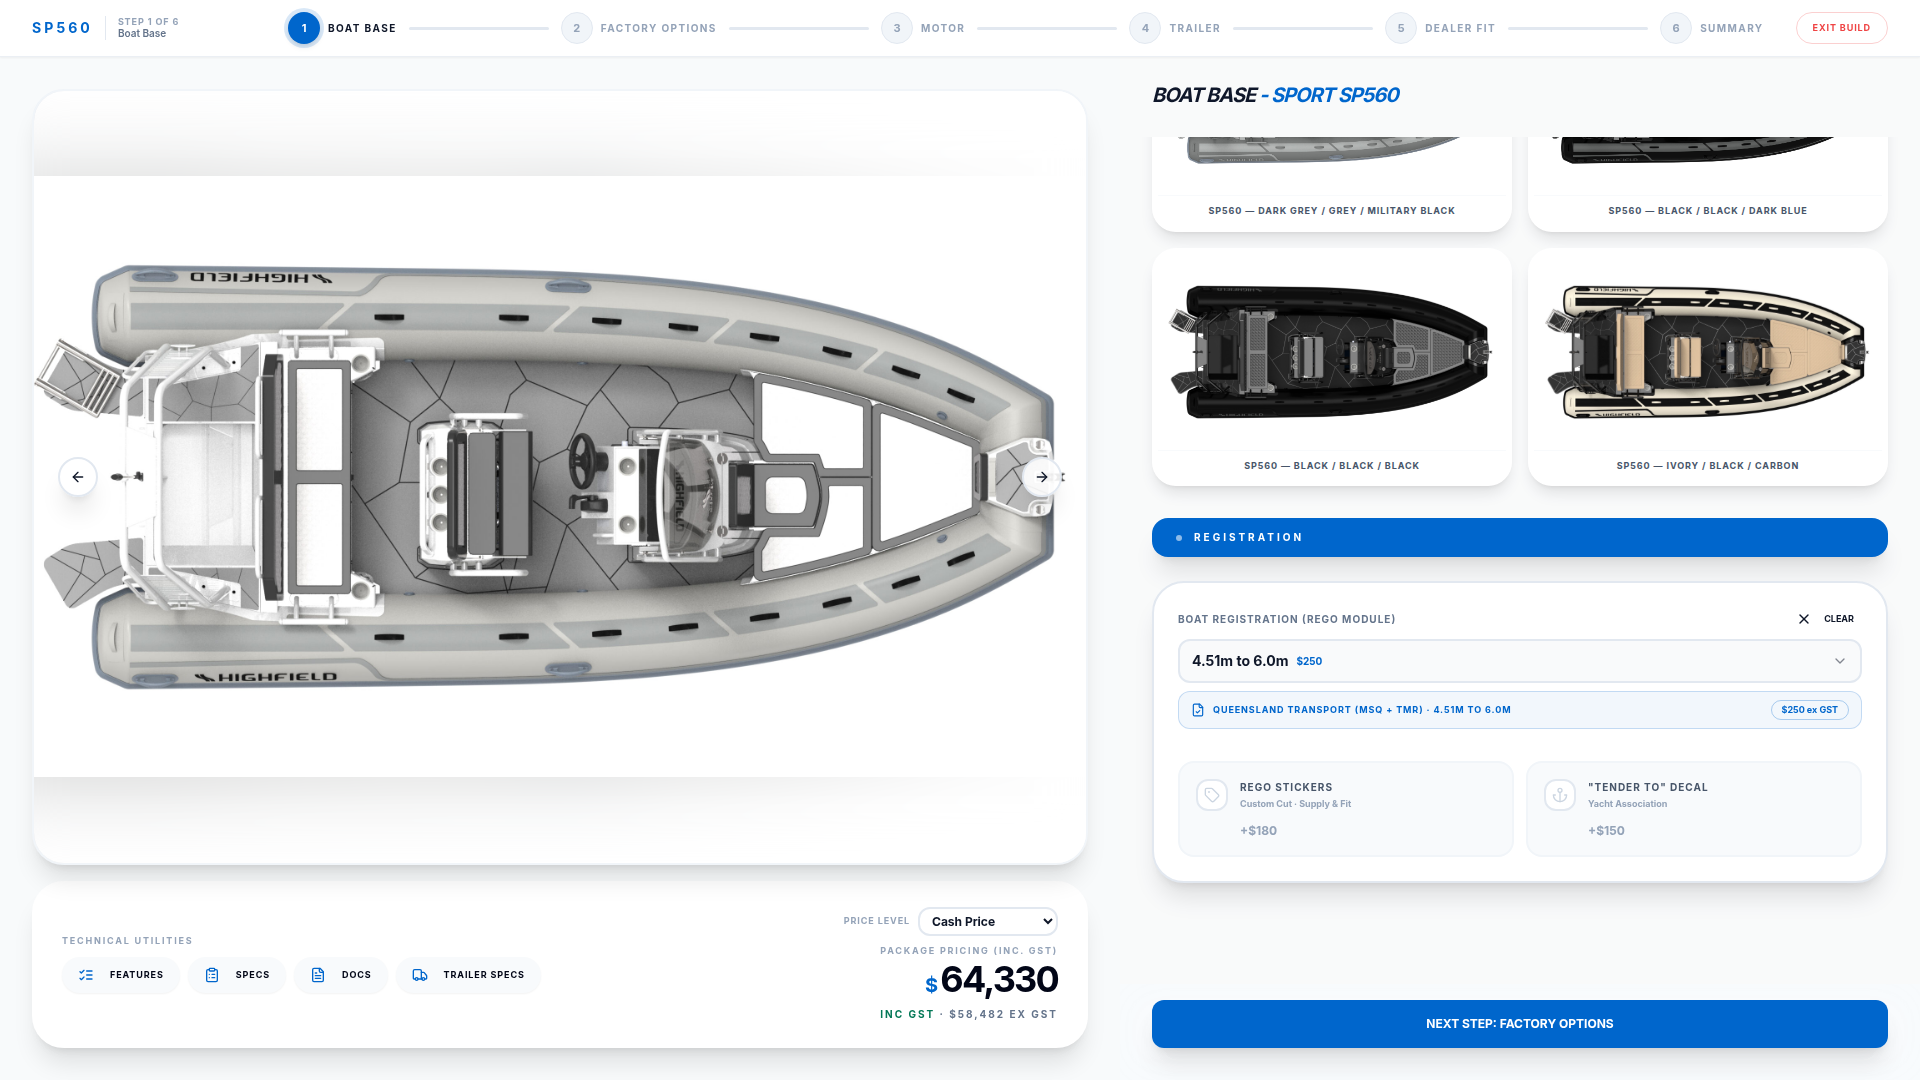
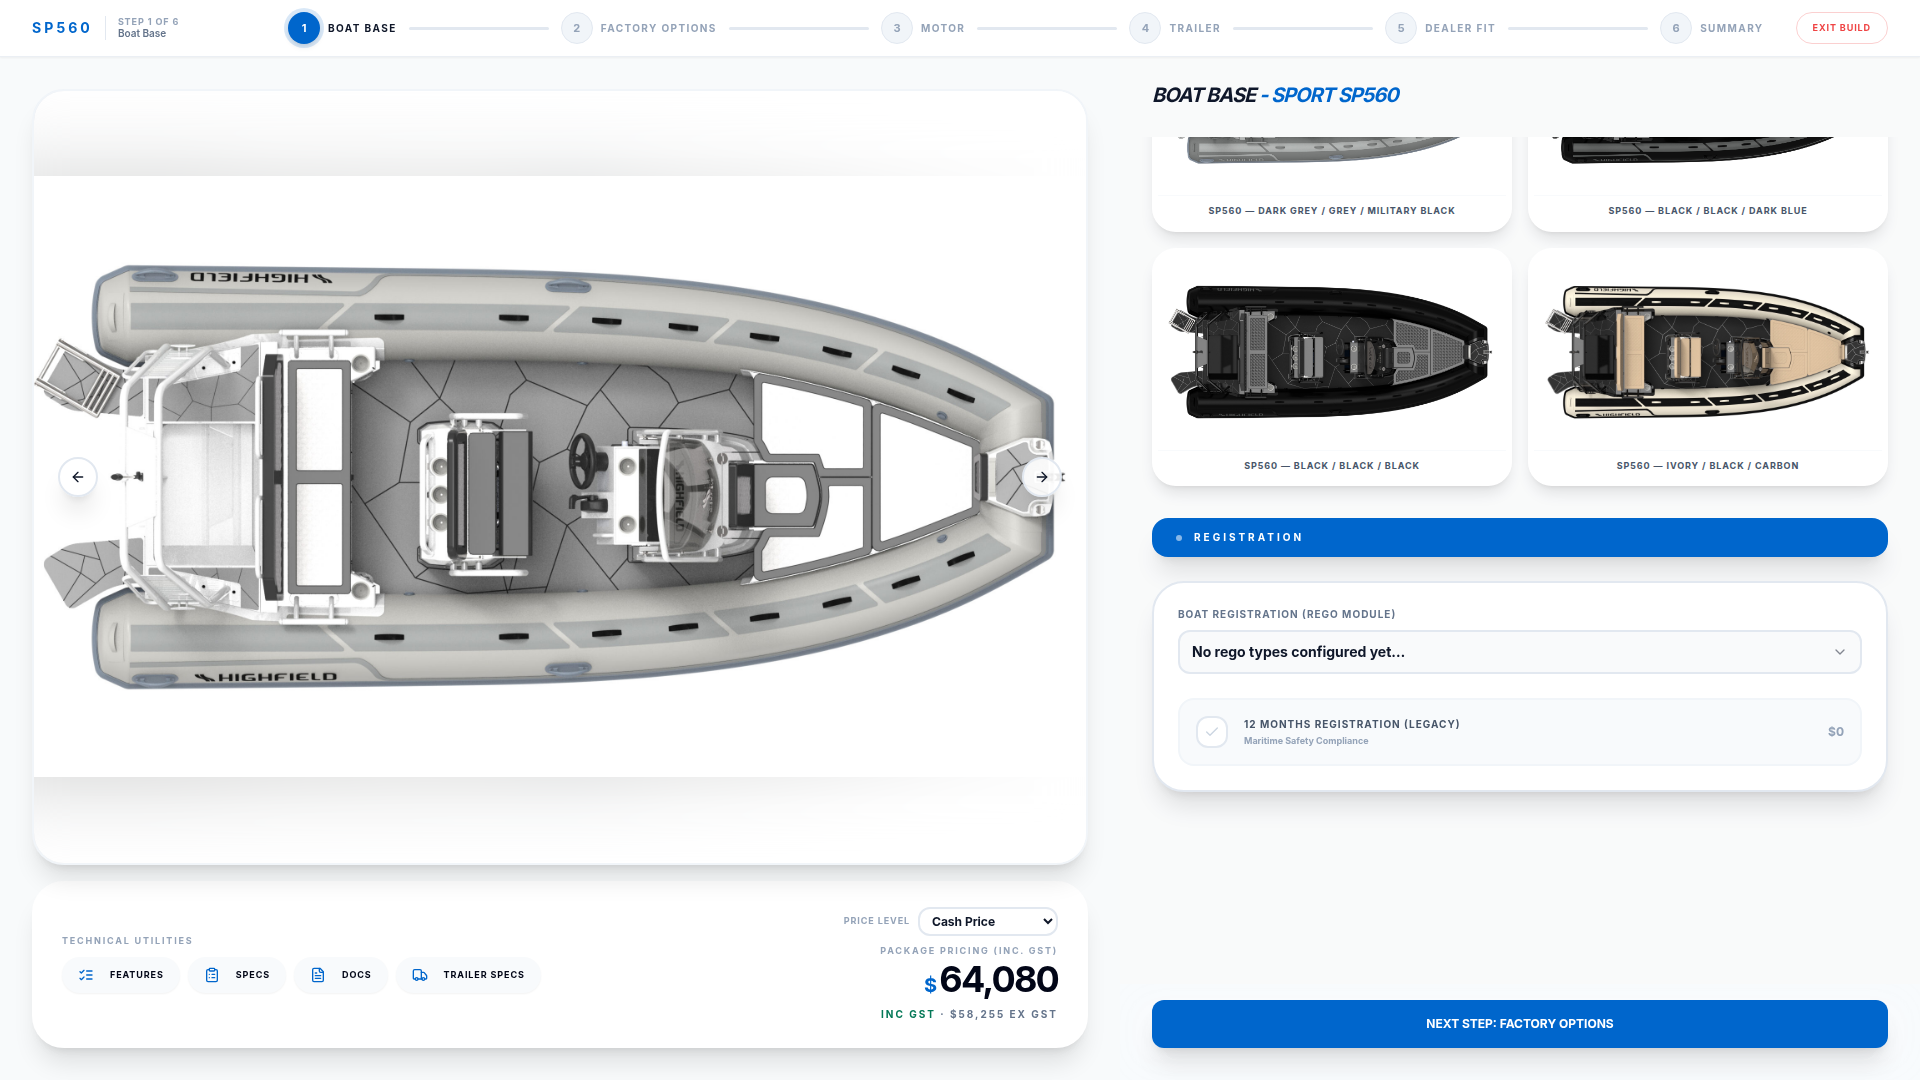
docs(v1.32): ceremony — release window shipped, CLAUDE.md row, handover, evolution lessons, roadmap story 12.5.1 seeded
Claude-Session: https://claude.ai/code/session_01N8htvKjvX1mxB76joJ9QQg

diff --git a/src/lib/release-schedule.ts b/src/lib/release-schedule.ts
@@ -49,7 +49,7 @@ export interface ReleaseWindow {
  * overwrote `{shipped: true}` to `{}`, the SHIPPED pill never rendered
  * on the Roadmap — caught by the user "why isn't 1.10 green?")
  */
-const FORWARD_RUNWAY_START = 32;
+const FORWARD_RUNWAY_START = 33;
 const FORWARD_RUNWAY_END = 40;
 function buildV1MinorReleases(): Record<string, ReleaseWindow> {
     const out: Record<string, ReleaseWindow> = {};
@@ -260,6 +260,12 @@ export const RELEASE_WINDOWS: Record<string, ReleaseWindow> = {
     // (3 bugs fixed), CI gate + nightly synthetic, visual regression +
     // TLS bridge, 34,512-check parity battery, fail-fix-retest ledger.
     'v1.31': { shipped: true },
+    // v1.32 — Display-Sheet pricing engine (FFR-33): quotes compose and
+    // price exactly like NSM's Display Sheet for every MPF boat (PD tier +
+    // rigging + prop composition, inc-GST convention, stale-override sweep).
+    // Proof: Mark's SP560 rebuilt in-browser + customer PDF at the sheet's
+    // own number. See tasks/RELEASE_NOTES_v1.32.0.md.
+    'v1.32': { shipped: true },
     ...buildV1MinorReleases(),
 };
 

diff --git a/CLAUDE.md b/CLAUDE.md
@@ -29,6 +29,7 @@
 | v1.11 — Fit-Up release (end-to-end + expansion + variants + images + packages + scheduling + audit workbook + pre-launch hardening) | ✅ Shipped to production. **Phase A** — pulled Epic 9.2 forward from v1.16: `FitUpQuoteSelector` mounted on Step 5 with multi-level assignment (modules / brands / ranges / models AND-combined), motor-HP Suggested filter, customer PDF single Fit-up & Rigging summary line per locked Story 9.2.3. **Phase B (expansion)** — `FitUpItem` gains `category` + `customerDescription`; new `fitUpPackages` collection with one-click bundle selection; quote selector adds search + category chips + per-line qty / price-override / quote-note; new workshop `fitUpStatus` on the quote (pending/scheduled/in-progress/complete) as a popover pill on the proposal-view header, audit-logged. **Phase C (expansion-2)** — demo-unblocker `V111SeedFitUpDummyDataButton` (15 items + 3 packages, catalogue-wide, click-once); variant-level (sub-model SKU) assignment with lazy-loaded `variantIds` chips; item images (`imageUrl` field + native `<img>` thumbnails per CLAUDE.md lesson); soft `oftenPairedWith` hints (lightweight take on 9.3.1; full rule engine still v2.2); catalog audit log at `organisations/{orgId}/fitUpCatalogAudit` (create/update/delete with shallow diff, fire-and-forget); `FitUpPackage.packagePrice` package-level override (proportionally distributed across members as per-line overrides at quote time, margin stays honest); fit-up scheduling fields on the quote (`fitUpScheduledDate` + `fitUpAssignedTechnician`) rendered inside the workshop-status popover; expanded `catalog-export-import.tsx` as the **Pricing + Configurator Audit Workbook** with new export-only sheets (Exchange Rates / Dealer Fit Selections / Dealer Fit Categories / Motor Vendors / Motor Models with flat hull_cash / hull_trade / hull_subdealer / hull_commercial / hull_boating_alliance price-level columns). **Phase D — pre-launch hardening (8/06/2026)** triggered by Mark McWilliams' "accurate · audited · beautiful" email. (1) Mark's 8-item checklist proven end-to-end via `tests/bm-email-checklist.spec.ts` (CL380, 11/11 ticks) + `tests/bm-email-checklist-sport.spec.ts` (SP600 fallback SP560) — proposal sections + customer name placement + no-trailer-on-hull + FFO + motor + rigging + trailer + DFOs + rego (Step 1 picker + PDF) + fit-out tiers. (2) `proposal-pdf.tsx` restores trailer image (fallback chain: imageUrl → catalog.imageUrl → catalog.coverImageUrl → BuildBand placeholder), adds SummaryImage fallback for motor image, and nests Standard Inclusions / Factory Options / Motor Accessories / Trailer Options / Dealer Fit as indented sub-items under their parent Vessel / Propulsion / Trailer line in the Investment Summary. (3) Audit-trail unification — `CatalogAuditHistory` now merges `catalogAudit` + `fitUpCatalogAudit` into one chronological feed (Wrench icon for fit-up rows), and the CSV bulk-import path in `fit-up-catalog-manager.tsx` writes its missing summary audit event. New `tests/v1.11-audit-trail.spec.ts` covers the unified panel + Fit-Up edit affordance + proposal-view Activity tab. (4) Fit-Up Catalog Add/Edit dialog polish — widened to `max-w-3xl` with vertical scroll + sticky save bar, four card sections with coloured dot headers (Basics / Customer-facing / Internal / Assignment scope), tier picker as 3-button pill row in TIER_TONE colours, image preview promoted from 64×64 to 80×112 alongside its URL input. Pure JSX rework — no schema or save-logic change. (5) Proposal-PDF polish — `proposal-pdf.tsx` restores trailer image (fallback chain `imageUrl → catalog.imageUrl → catalog.coverImageUrl → BuildBand placeholder`), adds `SummaryImage` motor fallback (for the Yamaha CDN Incapsula workaround), and nests Standard Inclusions / Factory Options / Motor Accessories / Trailer Options / Dealer Fit as indented sub-items under their parent Vessel / Propulsion / Trailer line in the Investment Summary. **Other v1.11 work** documented in release notes / user guide / email: Catalog Manager rename (Pricing → Catalog, sidebar URL unchanged); "Your Build" card-stack PDF redesign with numbered BuildBand stack + scope-routed dealer-fit; per-block content-block PDF styling (`accentColor` / `backgroundColor` / `textColor` / `titleSize` / `bodySize` / `titleAlign` / `bodyAlign` / `titleItalic` schema + scope-chain resolver); motor photo upload UI mirroring to Firebase Storage; Boats + Motors catalogue read-views (Stories 3.7.2 + 3.7.3); Customer Defaults card (sources / pipeline stages / trade-in rule); Document Defaults card (deposit / payment schedule / validity); `can_override_margin` + `can_approve_suggestions` permission flags; per-scope tier-package resolver with specificity weighting (model 8 > range 4 > brand 2 > module 1, +16 for useCase); image-preload routing through weserv with `WESERV_SKIP_HOSTS` denylist (kills the 21 MB PDF regression). **NOT in v1.11 (pushed to v1.12)** — code IS on dev and will ship, planning rows moved: Service Quote Flow (11.2.1), Service Catalog refinements (11.1.3 / 11.1.4), Motors Table read-view (3.7.3), Suggestion Approval Queue (3.5.1). One-shot buttons `V111FitUpRetargetButton` + `V111ExpansionRetargetButton` + `V111SeedFitUpDummyDataButton` mounted on the Roadmap; rules redeploy needed for new paths (`fitUpPackages`, `fitUpCatalogAudit` — full ruleset in PR description). `RELEASE_WINDOWS['v1.11'].shipped = true`. See `tasks/RELEASE_NOTES_v1.11.0.md` + `tasks/USER_GUIDE_v1.11.0.md`. |
 | v1.15 → v1.17 — Suggestions audit (3.3.1) · quote-flow polish + Hypalon relabel + PDF sizing · Catalog Editing at Scale + bug sweep | ✅ Shipped to production. Merged to main in PR #44 (main tip `c9b8b2c`) together with the v1.10–v1.14 joint pushes. See `tasks/RELEASE_NOTES_v1.15.0.md` / `v1.16.0` / `v1.17.0` + matching user guides. |
 | v1.18 → v1.30 — thirteen dev releases in this dev → main span: v1.18 Catalog polish + first customer-facing surface + Shopify spike · v1.19 Pricing discipline + variations foundation · v1.20 Quote-to-Contract lifecycle · v1.21 Customer CRM foundation · v1.22 Sales workspace shell · v1.23 Pipeline + payments + my-work · v1.24 Customer depth · v1.25 Quote tooling · v1.26 Global Search · v1.27 Customer documents + customer promos (**partial — 2.5.2 blocked on Revolution access, window honestly unflagged**) · v1.28 Co-buyers + refunds + promotion stacking · v1.29 (window skipped, empty) · v1.30 Notification system foundation | ✅ Shipped to production. Merged to main in the v1.18 → v1.31 release PR. Release notes + user guides exist for every one (`tasks/RELEASE_NOTES_v1.18.0.md` … `v1.30.0.md`). |
+| v1.32 — Display-Sheet pricing engine (FFR-33) | ✅ Shipped to production. Mark's SP560 field test ($103,731 sheet vs $99,112 HL) reconciled to the dollar into 3 causes, all fixed: stale modelOverrides layer swept fleet-wide (29 prices / 6 models, 0 shadows on re-audit); package composition per their sheet (PD tiers imported onto all 809 variants via `import-pd-tiers.py`, PD tier + slot rigging + prop auto-compose, PDF gains a Pre-Delivery & Installation line); inc-GST convention (`pricingConvention: 'display-sheet-v2'`, their figures are inc-GST money — "RRP + Freight Inc GST" is their own column title; legacy quotes keep the old convention). Proof: exact config rebuilt in-browser + customer PDF at the sheet's number (`tasks/test-evidence/ffr33-sp560-proof/`). Known residuals in notes: prop 4-price ambiguity (calibrated $282, NSM to rule), Display Sheet workbook requested from NSM for structural parity, PD tier picker + grid-motor bundles + battery sections M/N → v1.33. See `tasks/RELEASE_NOTES_v1.32.0.md` + `USER_GUIDE_v1.32.0.md` + `ffr33-composition-notes.md`. |
 | v1.31 — MPF migration + Testing & Evidence overhaul | ✅ Shipped to production (release prep complete 2026-07-05; merged to main in the v1.18 → v1.31 release PR). **Epic 12 (Master Price File Migration, `epics/mpf-migration`, stories 12.1.1–12.4.1)**: NSM's 17-workbook MPF ingested + decoded (phantom-dim traps defused), mapped with D1–D10 decision register (`tasks/mpf-audit/MAPPING.md`), then applied in 4 waves — 36,551 writes, 0 errors: boats (9 brands / 810 boats / landed-cost chain / price ladders / curated motor-trailer-dealer-fit menus, 588 Highfield SKUs parity-exact), motors/trailers/FO (priceLevels + new `hull_campaign`; 1,011 Highfield FO reprices fixing live USD-as-AUD cost==sell), parts (1,791 DFO / 3,660 fitUp / 26,345 serviceParts / 846 riggingKits / 1,606 suppliers), service + pricing config (364 ops / 189 engineServiceSchedules / 48-row pricingMatrix / QLD rego / freight / explicit FX). Quote-flow **NSM Recommended** wiring (`nsm-recommended.tsx`, data-gated, zero pre-import regression), **Manage → MPF Data** admin tab (6 collection managers), pricing-workspace landed-cost breakdown + engine service-schedule picker, image remediation (171 mirrored to Storage `mpf-mirror/`, 1,056 doc patches). **Epic 13 (Testing & Evidence Overhaul, `epics/testing-evidence`, stories 13.1.1–13.2.2)**: 460-test money-math unit suite (3 real bugs found + fixed: over-discount clamp, `cost: 0` honored via `??` instead of an OR-fallback, payment-schedule floor), CI gate + nightly synthetic (`.github/workflows/ci.yml`), visual regression + sandbox TLS bridge, MPF parity battery sections I/J (34,498/34,512, every fail explained — **PARITY PROVEN, zero unexpected deltas**), fail→fix→retest ledger FFR-1…16 + grand evidence report. New org collections: `riggingKits`, `suppliers`, `supplierPriceLists`, `pricingMatrix`, `engineServiceSchedules`, `freightConfig` (rules deployed + verified). Seeded via `scripts/seed-v131-mpf-release.py` (applied + read back: 2 epics + 14 shipped stories). `RELEASE_WINDOWS['v1.31'].shipped = true`; `FORWARD_RUNWAY_START` 31 → 32. See `tasks/RELEASE_NOTES_v1.31.0.md` + `tasks/USER_GUIDE_v1.31.0.md`. **Hunt-wave close-out (2026-07-04/05)**: ledger runs FFR-17…32 — full Highfield fleet walk ALL GREEN (85 models / 640 variants / 32,816 price asserts), per-boat relation web re-proven **ALL SETS EQUAL, 0 unexplained across 809 boats** (`PER_BOAT_SETS.md`), Step-5 curation engine (`src/lib/step5-curation.ts`, named fail-open rules + search/chips/show-all), hero-carousel fix (FFR-30), R-HP twin-engine scaling (FFR-31), three adversarial audits closed (`UI_AUDIT.md` / `STRUCTURE_AUDIT.md` / `INVARIANTS_AUDIT.md` — 9 money invariants, every flag source-verified, zero data patches needed), FFR-16 CL380 checklist GREEN solo 11/11 (root cause was environment contention, twice proven), FFR-32 GT-console fix (GT never offers/charges a seat — FCT comes standard; 31 entries unpaired across catalog + cl340 override, browser-proven). **Pending**: NSM asks (Yamaha assets / SharePoint exports / fresh Yamaha price file / Stabicraft FO fix in their MPF / 7 below-cost Stacer hulls / 29 motor-menu-vs-HP-column contradictions / 4 dead-or-unpriced trailer refs / digitless 'HIGHFIELD - Patrol' pack size / NEW-3 + NEW-4 factory-option scoping rulings), rules publish for the two P1 gaps (cross-user notifications + features auditLog). |
 
 **Active dev branch**: `claude/app-overview-wKiZ1` (auto-deploys to dev URL)

diff --git a/tasks/SESSION_HANDOVER.md b/tasks/SESSION_HANDOVER.md
@@ -24,6 +24,7 @@
 | v1.9.5 | 2026-05-14 | ✅ Shipped (PR #36) | main |
 | v1.10 | 2026-06-02 | ✅ Shipped — Phase A bug pass + Phase B Fit-Up admin + Phase C Service Quoting catalogue + Story 3.7.2 Boats read-view + FirebaseErrorListener denylist defense + v1.9.5 backfill | merged |
 | **v1.11** | **2026-06-02** | 🚢 **Ready for dev → main — Fit-Up release (Phase A pulled Epic 9.2 from v1.16 + Phase B fit-up expansion: categories + customerDescription + packages + per-line qty/override/note + workshop status pill).** Non-fit-up stories built in the same dev cycle (Service Quote Flow, Motors Table, Suggestion Approval Queue) retargeted to v1.12 so v1.11 ships as a focused Fit-Up release. | `claude/app-overview-wKiZ1` |
+| **v1.32** | **2026-07-08** | 🚢 **Display-Sheet pricing engine (FFR-33)** — quotes compose + price exactly like NSM's Display Sheet on every MPF boat: stale override sweep (fleet-wide, 0 shadows), PD tiers on all 809 variants, PD tier + slot rigging + prop auto-composition, inc-GST convention (`pricingConvention: 'display-sheet-v2'`, legacy quotes untouched). Proof: Mark's SP560 rebuilt in-browser + customer PDF at the sheet's own number. See `tasks/RELEASE_NOTES_v1.32.0.md`. | `claude/app-overview-wKiZ1` |
 | **v1.31** | **2026-07-03** | 🚢 **MPF migration + Testing & Evidence overhaul** — Epic 12 (NSM's 17-workbook Master Price File migrated 1:1: 36,551 writes / 0 errors / parity proven 34,498 of 34,512 with every fail explained) + Epic 13 (460-test money-math unit suite, CI gate + nightly synthetic, visual regression + TLS bridge, fail→fix→retest ledger FFR-1…31 incl. the hunt-wave close-out: full fleet walk green, 809-boat relation web ALL SETS EQUAL 0 unexplained, Step-5 curation engine, three adversarial audits, FFR-16 checklist 11/11 solo). **Release-prepped 2026-07-05 — the pending dev → main PR spans v1.18 → v1.31.** See `tasks/RELEASE_NOTES_v1.31.0.md` + `tasks/RELEASE_PR_DRAFT_v1.31.md` + the "v1.31 new Firestore surface" block below. | `claude/app-overview-wKiZ1` |
 
 > **v1.9.5 = planning + groundwork + hotfix** (fractional, like v1.5.1/v1.6.1). Roadmap reshuffled to dealer-ops priority (157 stories re-targeted, Submitted drained, sequential v1.10–v1.40 runway); Epic 11 Service Quoting seeded as backlog (NSM-Hub absorption — PLANNED, not built); clickable release-detail popups; emailTemplates Create-Proposal crash (CODE fix — SendQuoteDialog subscribed to templates unconditionally; not a rules issue). **The actual dealer-ops + Service Quoting BUILD starts at v1.10.**

diff --git a/.agents/evolution.md b/.agents/evolution.md
@@ -399,6 +399,10 @@ Pricing overhaul (universal publish, price level selector), quote-to-stock with 
 - **A "solo" test run isn't solo if background REST walks share the proxy.** The CL380 checklist failed its scheduled solo re-run because two read-only Firestore audits were saturating the sandbox TLS bridge — the module page starved at "Synchronizing". Before declaring an environment-suspected failure re-tested, enumerate every process that touches Firestore/the bridge and kill them; `ps aux | grep` is part of the retest protocol.
 - **Python ports of TS classifiers drift silently — re-run the port after every TS change.** The C1F simulation still embodied the pre-curation classifier weeks of commits later, reporting 420 stale "NEW" diffs. When a check ports app logic, the port's sync commit must be paired with a fresh evidence run, or the evidence file contradicts the shipped behavior.
 
+- **A field tester compares against the tool they USE, not the data you migrated.** MPF parity was proven value-for-value, yet Mark's quote diverged $4,619 — because his Display Sheet COMPOSES (PD bundling, raw-GST option summing) on top of the data. Parity claims must cover the composition layer, and the verification harness must price like the user's tool end-to-end, not diff catalog values. Corollary: get the tool's own workbook — reverse-engineering a printout leaves residuals (their sheet carried a $10 unattributable rounding + a 4-price prop ambiguity inside their own file).
+- **Every price surface must flow through ONE money function.** The $103,443-vs-$103,734 PDF bug was proposal-view.tsx carrying an inline copy of the legacy financials — the quote doc was perfect, the render lied. When a convention changes (display-sheet-v2), grep for every reimplementation of the math; a versioned convention field on the doc is the guard that makes stragglers visible.
+- **Verify the exact build a browser test hits.** Two proof runs asserted against stale .next output because `npm run build | tail -1` produced nothing and the old server kept serving. Print BUILD_ID before and after; a green build step that shows no output is a failed build until proven otherwise.
+
 ## How to Proceed (For Future Agents)
 - **Read tasks/SESSION_HANDOVER.md** first for complete technical context
 - **Check CLAUDE.md** for workflow rules
